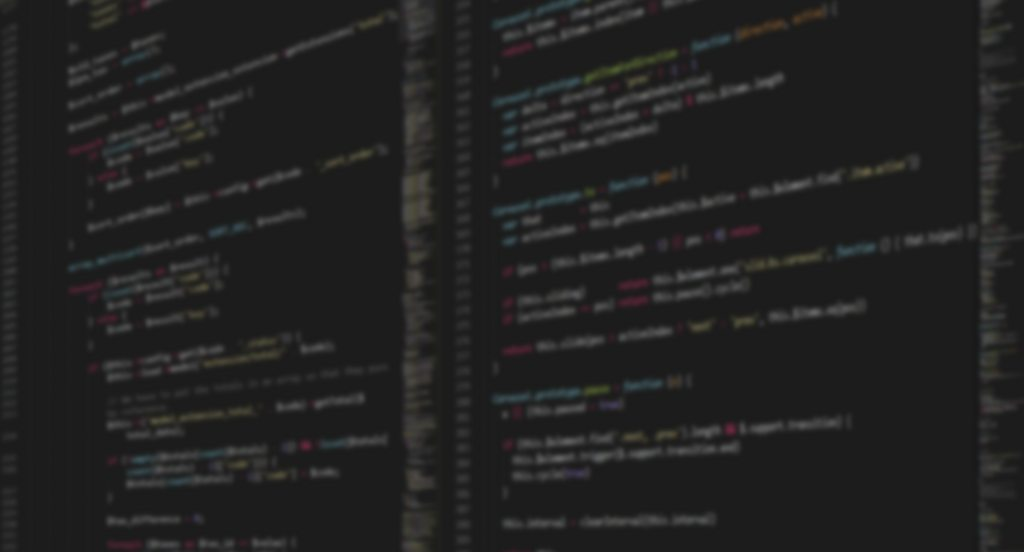
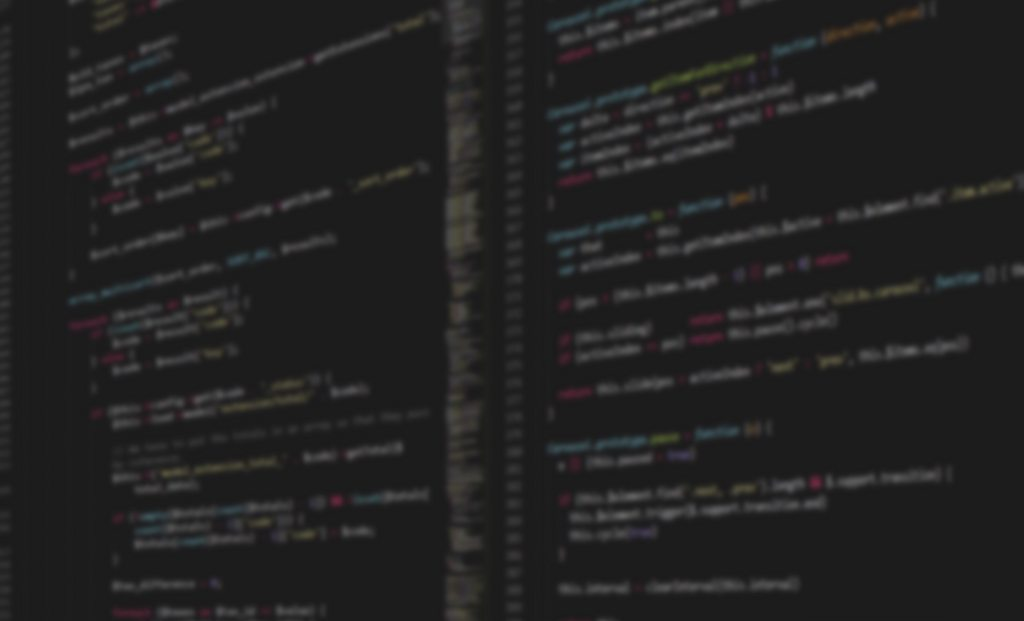
updated bg, loading css

diff --git a/assets/css/resume.min.css b/assets/css/resume.min.css
@@ -2,5 +2,5 @@
  * avarghese-resume (https://github.com/varararun/resume)
  * Copyright 2016-2019 arun varghese
  */
-body,html{font-size:12px;font-family:Montserrat,"Helvetica Neue",Arial,sans-serif}body.disable-scroll,html.disable-scroll{overflow-y:hidden}a,h1,i,li,ul{-webkit-transition:.3s ease-in-out;transition:.3s ease-in-out}a{cursor:pointer;color:inherit!important}li,ul{list-style-type:none!important;margin-left:0;padding-left:0}ul.bullets-check-o li:before{content:'\f058';font-family:'Font Awesome\ 5 Free';font-weight:900;padding-right:10px}ul.bullets-tack li:before{content:'\f08d';font-family:'Font Awesome\ 5 Free';font-weight:900;padding-right:10px}a,button,div,i,select{text-decoration:none!important;outline:0!important}section{background-color:#fffffff0;position:relative;border-radius:2px;-webkit-box-shadow:0 5px 10px 0 rgba(0,0,0,.2);box-shadow:0 5px 10px 0 rgba(0,0,0,.2);max-width:75em;margin:1.5em auto;overflow-x:hidden;padding:1em 1.5em;-webkit-transition:.3s ease-in-out;transition:.3s ease-in-out;overflow:visible;word-wrap:break-word;font-weight:300}section:first-child{background-image:url(../img/bg-card.png);background-size:cover}h1{font-size:24px}h2{font-size:20px}h3{font-size:15px}h4{font-size:12px}h5{font-size:10px}h1,h2,h3,h4,h5,h6{font-weight:600!important;margin-top:5px!important;margin-bottom:5px!important}hr{margin-top:15px;margin-bottom:10px;border:0;border-top:1px solid rgba(0,0,0,.05)}::-webkit-scrollbar{display:none}.no-touch li:hover{border-bottom:1px solid transparent!important;background-color:#009eecc7!important;color:#fff;border-radius:2px}.no-touch .skills>ul>li:hover .proficiency{opacity:1}.no-touch .skills>ul>li:hover span:after{color:#fff}.no-touch .skills>ul h4:hover+li .proficiency{opacity:1}.no-touch .dl-resume-btn:hover{-webkit-box-shadow:0 3px 5px 0 rgba(0,0,0,.2);box-shadow:0 3px 5px 0 rgba(0,0,0,.2)}.footer{color:#fff;position:relative;margin:4.5em auto 0;padding:4em 0 .5em}.home-btn{position:absolute;top:0;left:0;padding:10px;color:#089ee5}.scrolltop-btn{cursor:pointer;position:absolute;top:-16px;border-radius:50%;left:50%;-webkit-transform:translateX(-50%);transform:translateX(-50%)}.environment>span:after,.experience>job>span:after,.skills>ul>li>span:after,.work-details>span:nth-child(odd):after{content:" / ";color:#089ee5;font-weight:600;opacity:.7}#skills>ul>li>span:last-child:after,#skills>ul>li>span:nth-child(7):after,.environment span:last-child:after,.experience span:last-child:after,.opensource span:last-child:after,.projects span:last-child:after,.skills>ul li>span:last-child:after{content:''}.header-name,.section-header{text-transform:uppercase;color:#089ee5!important}.pull-right{float:right}.section-icon{position:absolute;top:0;right:0;padding:1.4em 1em 0 0}.section-icon i{font-size:1.5em}.text-shadow{text-shadow:1px .5px 1px rgba(0,0,0,.2)}.accent-color{color:#089ee5!important}.align-center{text-align:center}.uppercase{text-transform:uppercase}.proficiency{-webkit-transition:.3s ease-in-out;transition:.3s ease-in-out;position:absolute;right:0;top:-21px}#bg-img{background:#282f35 url(../img/code.png);-webkit-transform-origin:center;transform-origin:center;background-size:cover!important;background-repeat:no-repeat!important;background-position:center center!important;width:100%;height:100%;position:fixed;top:0;left:0;-webkit-transition:.3s ease-in-out;transition:.3s ease-in-out;z-index:-1}.bg-overlay{position:fixed;top:0;left:0;width:100%;height:100%;background:radial-gradient(rgba(0,0,0,.2),rgba(0,0,0,.5),rgba(0,0,0,.9));-webkit-transition:.3s ease-in-out;transition:.3s ease-in-out}.dl-resume-container{margin:3em auto 2em}.dl-resume-container .dl-resume-btn{padding:10px;background:url(../img/bg-card.png);background-size:cover;background-repeat:no-repeat;border-radius:2px;background-color:#089ee5;color:#fff!important;font-weight:600;-webkit-transition:.3s ease-in-out;transition:.3s ease-in-out}.no-touch .proficiency{opacity:0}.page-wrap{padding:0 1em;width:100vw;min-height:100%;overflow-x:hidden;-webkit-transition:.3s ease-in-out;transition:.3s ease-in-out}.page-wrap.loading{opacity:0}.header .work-details{margin:1.5em auto;font-size:.9em;font-weight:600;width:100%}.header .work-details h1{font-weight:600!important;font-size:2em}.header .work-details .profile{border-radius:50%;width:10em;margin:0 auto 2em;-webkit-filter:grayscale(100%);filter:grayscale(100%)}.header .summary{position:relative;padding:0 1.45em}.header .summary:before{content:'\f10d';font-family:'Font Awesome\ 5 Free';font-weight:900;color:initial;position:absolute;left:0;font-size:1em;top:0}.header .summary:after{content:'\f10e';font-family:'Font Awesome\ 5 Free';font-weight:900;color:initial;position:absolute;right:0;font-size:1em;top:0}.interests .tech-icons-list{display:-webkit-box;display:-ms-flexbox;display:flex;-webkit-box-orient:horizontal;-webkit-box-direction:normal;-ms-flex-direction:row;flex-direction:row;-ms-flex-wrap:wrap;flex-wrap:wrap;-webkit-box-pack:center;-ms-flex-pack:center;justify-content:center;-webkit-box-align:stretch;-ms-flex-align:stretch;align-items:stretch;-ms-flex-line-pack:stretch;align-content:stretch}.interests .tech-icons-list i{font-size:5em;margin:.3em;-webkit-transition:.3s ease-in-out;transition:.3s ease-in-out;-webkit-filter:grayscale(100%);filter:grayscale(100%)}.interests .tech-icons-list i:hover{-webkit-transform:scale(1.2);transform:scale(1.2);-webkit-filter:grayscale(0);filter:grayscale(0)}.info ul li{padding:.3em .5em!important;background-color:transparent;border-bottom:1px solid #fff;-webkit-transform:perspective(1px) translateZ(0);transform:perspective(1px) translateZ(0)}.info ul li a{padding-right:1em}.info ul li:last-child{border-bottom:none}.info ul li a{-webkit-transition:0s;transition:0s}.info ul li a i{margin-right:.5em;padding:.4em 1.5em .4em .5em;-webkit-transition:0s;transition:0s}.highlights ul li{padding:.3em .5em!important;background-color:transparent;border-bottom:1px solid #fff;-webkit-transform:perspective(1px) translateZ(0);transform:perspective(1px) translateZ(0)}.highlights ul li a{padding-right:1em}.highlights ul li:last-child{border-bottom:none}.skills ul li{padding:.3em .5em!important;background-color:transparent;border-bottom:1px solid #fff;-webkit-transform:perspective(1px) translateZ(0);transform:perspective(1px) translateZ(0)}.skills ul li a{padding-right:1em}.skills ul li:last-child{border-bottom:none}.skills ul li{position:relative}.opensource ul li{padding:.3em .5em!important;background-color:transparent;border-bottom:1px solid #fff;-webkit-transform:perspective(1px) translateZ(0);transform:perspective(1px) translateZ(0)}.opensource ul li a{padding-right:1em}.opensource ul li:last-child{border-bottom:none}.projects ul li{padding:.3em .5em!important;background-color:transparent;border-bottom:1px solid #fff;-webkit-transform:perspective(1px) translateZ(0);transform:perspective(1px) translateZ(0)}.projects ul li a{padding-right:1em}.projects ul li:last-child{border-bottom:none}.experience .job img{width:8em;height:auto;padding:.5em 0}.experience .job .summary{font-size:1.05em;font-weight:300;margin:.5em 0;background-color:transparent;padding:.3em .5em!important}.experience .job .details .job-detail-label{font-weight:600!important}.experience .job .details ul li{padding:.3em .5em!important;background-color:transparent;border-bottom:1px solid #fff;-webkit-transform:perspective(1px) translateZ(0);transform:perspective(1px) translateZ(0)}.experience .job .details ul li a{padding-right:1em}.experience .job .details ul li:last-child{border-bottom:none}.experience .job .details .environment{background-color:transparent;padding:.5em}.achievements .patent a{font-weight:200}.achievements .achievement .summary{background-color:transparent;padding:.5em}.achievements .achievement .summary a{font-weight:200}@media handheld,(max-width:1024px){section{background-color:#fffffff0}}@media handheld,(max-width:450px){.detail-row>.pull-right{float:initial;display:block;margin-top:.5em}}.loader-container{width:100%;height:100%;z-index:10;background:0 0;position:fixed;-webkit-filter:blur(1em);filter:blur(1em);-webkit-transition:.3s ease-in-out;transition:.3s ease-in-out;opacity:0}.loader-container.loading{opacity:1;-webkit-filter:none;filter:none}.cube-loader{width:80px;height:80px;line-height:80px;text-align:center;font-size:50px;-webkit-transform-style:preserve-3d;transform-style:preserve-3d;-webkit-transition:-webkit-transform .5s .1s;transition:-webkit-transform .5s .1s;transition:transform .5s .1s;transition:transform .5s .1s,-webkit-transform .5s .1s;-webkit-perspective:9999px;perspective:9999px;color:#333;margin:-40px 0 0 -40px;margin:0 auto;position:absolute;left:50%;margin-left:-37px;top:50%;z-index:11;-webkit-animation:rotate 2s infinite forwards;animation:rotate 2s infinite forwards;margin-top:-50px}.cube-loader .cube-face{-webkit-box-shadow:inset 0 0 2px 1px #fff,0 0 1px 1px #fff;box-shadow:inset 0 0 2px 1px #fff,0 0 1px 1px #fff;width:inherit;height:inherit;position:absolute;background-color:#121212e0;color:#fff}.cube-loader .cube-face-front{-webkit-transform:translate3d(0,0,40px);transform:translate3d(0,0,40px);font-size:57px}.cube-loader .cube-face-back{-webkit-transform:rotateY(180deg) translate3d(0,0,40px);transform:rotateY(180deg) translate3d(0,0,40px)}.cube-loader .cube-face-left{-webkit-transform:rotateY(-90deg) translate3d(0,0,40px);transform:rotateY(-90deg) translate3d(0,0,40px)}.cube-loader .cube-face-right{-webkit-transform:rotateY(90deg) translate3d(0,0,40px);transform:rotateY(90deg) translate3d(0,0,40px)}.cube-loader .cube-face-top{-webkit-transform:rotateX(90deg) translate3d(0,0,40px);transform:rotateX(90deg) translate3d(0,0,40px)}.cube-loader .cube-face-bottom{-webkit-transform:rotateX(-90deg) translate3d(0,0,40px);transform:rotateX(-90deg) translate3d(0,0,40px)}@-webkit-keyframes rotate{0%{-webkit-transform:rotateY(0) rotateZ(0);transform:rotateY(0) rotateZ(0)}20%{-webkit-transform:rotateY(90deg) rotateZ(0);transform:rotateY(90deg) rotateZ(0)}40%{-webkit-transform:rotateX(45deg) rotateZ(45deg);transform:rotateX(45deg) rotateZ(45deg)}60%{-webkit-transform:rotateX(90deg) rotateY(180deg) rotateX(90deg);transform:rotateX(90deg) rotateY(180deg) rotateX(90deg)}80%{-webkit-transform:rotateX(310deg) rotateZ(230deg);transform:rotateX(310deg) rotateZ(230deg)}100%{-webkit-transform:rotateX(360deg) rotateZ(360deg);transform:rotateX(360deg) rotateZ(360deg)}}@keyframes rotate{0%{-webkit-transform:rotateY(0) rotateZ(0);transform:rotateY(0) rotateZ(0)}20%{-webkit-transform:rotateY(90deg) rotateZ(0);transform:rotateY(90deg) rotateZ(0)}40%{-webkit-transform:rotateX(45deg) rotateZ(45deg);transform:rotateX(45deg) rotateZ(45deg)}60%{-webkit-transform:rotateX(90deg) rotateY(180deg) rotateX(90deg);transform:rotateX(90deg) rotateY(180deg) rotateX(90deg)}80%{-webkit-transform:rotateX(310deg) rotateZ(230deg);transform:rotateX(310deg) rotateZ(230deg)}100%{-webkit-transform:rotateX(360deg) rotateZ(360deg);transform:rotateX(360deg) rotateZ(360deg)}}
+body,html{background-color:#282f35;font-size:12px;font-family:Montserrat,"Helvetica Neue",Arial,sans-serif}body.disable-scroll,html.disable-scroll{overflow-y:hidden}a,h1,i,li,ul{-webkit-transition:.3s ease-in-out;transition:.3s ease-in-out}a{cursor:pointer;color:inherit!important}li,ul{list-style-type:none!important;margin-left:0;padding-left:0}ul.bullets-check-o li:before{content:'\f058';font-family:'Font Awesome\ 5 Free';font-weight:900;padding-right:10px}ul.bullets-tack li:before{content:'\f08d';font-family:'Font Awesome\ 5 Free';font-weight:900;padding-right:10px}a,button,div,i,select{text-decoration:none!important;outline:0!important}section{background-color:#fffffff0;position:relative;border-radius:2px;-webkit-box-shadow:0 5px 10px 0 rgba(0,0,0,.2);box-shadow:0 5px 10px 0 rgba(0,0,0,.2);max-width:75em;margin:1.5em auto;overflow-x:hidden;padding:1em 1.5em;-webkit-transition:.3s ease-in-out;transition:.3s ease-in-out;overflow:visible;word-wrap:break-word;font-weight:300}section:first-child{background-image:url(../img/bg-card.png);background-size:cover}h1{font-size:24px}h2{font-size:20px}h3{font-size:15px}h4{font-size:12px}h5{font-size:10px}h1,h2,h3,h4,h5,h6{font-weight:600!important;margin-top:5px!important;margin-bottom:5px!important}hr{margin-top:15px;margin-bottom:10px;border:0;border-top:1px solid rgba(0,0,0,.05)}::-webkit-scrollbar{display:none}.no-touch li:hover{border-bottom:1px solid transparent!important;background-color:#009eecc7!important;color:#fff;border-radius:2px}.no-touch .skills>ul>li:hover .proficiency{opacity:1}.no-touch .skills>ul>li:hover span:after{color:#fff}.no-touch .skills>ul h4:hover+li .proficiency{opacity:1}.no-touch .dl-resume-btn:hover{-webkit-box-shadow:0 3px 5px 0 rgba(0,0,0,.2);box-shadow:0 3px 5px 0 rgba(0,0,0,.2)}.footer{color:#fff;position:relative;margin:4.5em auto 0;padding:4em 0 .5em}.home-btn{position:absolute;top:0;left:0;padding:10px;color:#089ee5}.scrolltop-btn{cursor:pointer;position:absolute;top:-16px;border-radius:50%;left:50%;-webkit-transform:translateX(-50%);transform:translateX(-50%)}.environment>span:after,.experience>job>span:after,.skills>ul>li>span:after,.work-details>span:nth-child(odd):after{content:" / ";color:#089ee5;font-weight:600;opacity:.7}#skills>ul>li>span:last-child:after,#skills>ul>li>span:nth-child(7):after,.environment span:last-child:after,.experience span:last-child:after,.opensource span:last-child:after,.projects span:last-child:after,.skills>ul li>span:last-child:after{content:''}.header-name,.section-header{text-transform:uppercase;color:#089ee5!important}.pull-right{float:right}.section-icon{position:absolute;top:0;right:0;padding:1.4em 1em 0 0}.section-icon i{font-size:1.5em}.text-shadow{text-shadow:1px .5px 1px rgba(0,0,0,.2)}.accent-color{color:#089ee5!important}.align-center{text-align:center}.uppercase{text-transform:uppercase}.proficiency{-webkit-transition:.3s ease-in-out;transition:.3s ease-in-out;position:absolute;right:0;top:-21px}#bg-img{background:#282f35 url(../img/code.png);-webkit-transform-origin:center;transform-origin:center;background-size:cover!important;background-repeat:no-repeat!important;background-position:center center!important;width:100%;height:100%;position:fixed;top:0;left:0;-webkit-transition:.3s ease-in-out;transition:.3s ease-in-out}.bg-overlay{position:fixed;top:0;left:0;width:100%;height:100%;background:radial-gradient(rgba(0,0,0,.2),rgba(0,0,0,.5),rgba(0,0,0,.9));-webkit-transition:.3s ease-in-out;transition:.3s ease-in-out}.dl-resume-container{margin:3em auto 2em}.dl-resume-container .dl-resume-btn{padding:10px;background:url(../img/bg-card.png);background-size:cover;background-repeat:no-repeat;border-radius:2px;background-color:#089ee5;color:#fff!important;font-weight:600;-webkit-transition:.3s ease-in-out;transition:.3s ease-in-out}.no-touch .proficiency{opacity:0}.page-wrap{padding:0 1em;width:100vw;min-height:100%;overflow-x:hidden;-webkit-transition:.3s ease-in-out;transition:.3s ease-in-out}.page-wrap.loading{opacity:0}.header .work-details{margin:1.5em auto;font-size:.9em;font-weight:600;width:100%}.header .work-details h1{font-weight:600!important;font-size:2em}.header .work-details .profile{border-radius:50%;width:10em;margin:0 auto 2em;-webkit-filter:grayscale(100%);filter:grayscale(100%)}.header .summary{position:relative;padding:0 1.45em}.header .summary:before{content:'\f10d';font-family:'Font Awesome\ 5 Free';font-weight:900;color:initial;position:absolute;left:0;font-size:1em;top:0}.header .summary:after{content:'\f10e';font-family:'Font Awesome\ 5 Free';font-weight:900;color:initial;position:absolute;right:0;font-size:1em;top:0}.interests .tech-icons-list{display:-webkit-box;display:-ms-flexbox;display:flex;-webkit-box-orient:horizontal;-webkit-box-direction:normal;-ms-flex-direction:row;flex-direction:row;-ms-flex-wrap:wrap;flex-wrap:wrap;-webkit-box-pack:center;-ms-flex-pack:center;justify-content:center;-webkit-box-align:stretch;-ms-flex-align:stretch;align-items:stretch;-ms-flex-line-pack:stretch;align-content:stretch}.interests .tech-icons-list i{font-size:5em;margin:.3em;-webkit-transition:.3s ease-in-out;transition:.3s ease-in-out;-webkit-filter:grayscale(100%);filter:grayscale(100%)}.interests .tech-icons-list i:hover{-webkit-transform:scale(1.2);transform:scale(1.2);-webkit-filter:grayscale(0);filter:grayscale(0)}.info ul li{padding:.3em .5em!important;background-color:transparent;border-bottom:1px solid #fff;-webkit-transform:perspective(1px) translateZ(0);transform:perspective(1px) translateZ(0)}.info ul li a{padding-right:1em}.info ul li:last-child{border-bottom:none}.info ul li a{-webkit-transition:0s;transition:0s}.info ul li a i{margin-right:.5em;padding:.4em 1.5em .4em .5em;-webkit-transition:0s;transition:0s}.highlights ul li{padding:.3em .5em!important;background-color:transparent;border-bottom:1px solid #fff;-webkit-transform:perspective(1px) translateZ(0);transform:perspective(1px) translateZ(0)}.highlights ul li a{padding-right:1em}.highlights ul li:last-child{border-bottom:none}.skills ul li{padding:.3em .5em!important;background-color:transparent;border-bottom:1px solid #fff;-webkit-transform:perspective(1px) translateZ(0);transform:perspective(1px) translateZ(0)}.skills ul li a{padding-right:1em}.skills ul li:last-child{border-bottom:none}.skills ul li{position:relative}.opensource ul li{padding:.3em .5em!important;background-color:transparent;border-bottom:1px solid #fff;-webkit-transform:perspective(1px) translateZ(0);transform:perspective(1px) translateZ(0)}.opensource ul li a{padding-right:1em}.opensource ul li:last-child{border-bottom:none}.projects ul li{padding:.3em .5em!important;background-color:transparent;border-bottom:1px solid #fff;-webkit-transform:perspective(1px) translateZ(0);transform:perspective(1px) translateZ(0)}.projects ul li a{padding-right:1em}.projects ul li:last-child{border-bottom:none}.experience .job img{width:8em;height:auto;padding:.5em 0}.experience .job .summary{font-size:1.05em;font-weight:300;margin:.5em 0;background-color:transparent;padding:.3em .5em!important}.experience .job .details .job-detail-label{font-weight:600!important}.experience .job .details ul li{padding:.3em .5em!important;background-color:transparent;border-bottom:1px solid #fff;-webkit-transform:perspective(1px) translateZ(0);transform:perspective(1px) translateZ(0)}.experience .job .details ul li a{padding-right:1em}.experience .job .details ul li:last-child{border-bottom:none}.experience .job .details .environment{background-color:transparent;padding:.5em}.achievements .patent a{font-weight:200}.achievements .achievement .summary{background-color:transparent;padding:.5em}.achievements .achievement .summary a{font-weight:200}@media handheld,(max-width:1024px){section{background-color:#fffffff0}}@media handheld,(max-width:450px){.detail-row>.pull-right{float:initial;display:block;margin-top:.5em}}.loader-container{width:100%;height:100%;z-index:10;background:0 0;position:fixed;-webkit-filter:blur(1em);filter:blur(1em);-webkit-transition:.3s ease-in-out;transition:.3s ease-in-out;opacity:0}.loader-container.loading{opacity:1;-webkit-filter:none;filter:none}.cube-loader{width:80px;height:80px;line-height:80px;text-align:center;font-size:50px;-webkit-transform-style:preserve-3d;transform-style:preserve-3d;-webkit-transition:-webkit-transform .5s .1s;transition:-webkit-transform .5s .1s;transition:transform .5s .1s;transition:transform .5s .1s,-webkit-transform .5s .1s;-webkit-perspective:9999px;perspective:9999px;color:#333;margin:-40px 0 0 -40px;margin:0 auto;position:absolute;left:50%;margin-left:-37px;top:50%;z-index:11;-webkit-animation:rotate 2s infinite forwards;animation:rotate 2s infinite forwards;margin-top:-50px}.cube-loader .cube-face{-webkit-box-shadow:inset 0 0 2px 1px #fff,0 0 1px 1px #fff;box-shadow:inset 0 0 2px 1px #fff,0 0 1px 1px #fff;width:inherit;height:inherit;position:absolute;background-color:#121212e0;color:#fff}.cube-loader .cube-face-front{-webkit-transform:translate3d(0,0,40px);transform:translate3d(0,0,40px);font-size:57px}.cube-loader .cube-face-back{-webkit-transform:rotateY(180deg) translate3d(0,0,40px);transform:rotateY(180deg) translate3d(0,0,40px)}.cube-loader .cube-face-left{-webkit-transform:rotateY(-90deg) translate3d(0,0,40px);transform:rotateY(-90deg) translate3d(0,0,40px)}.cube-loader .cube-face-right{-webkit-transform:rotateY(90deg) translate3d(0,0,40px);transform:rotateY(90deg) translate3d(0,0,40px)}.cube-loader .cube-face-top{-webkit-transform:rotateX(90deg) translate3d(0,0,40px);transform:rotateX(90deg) translate3d(0,0,40px)}.cube-loader .cube-face-bottom{-webkit-transform:rotateX(-90deg) translate3d(0,0,40px);transform:rotateX(-90deg) translate3d(0,0,40px)}@-webkit-keyframes rotate{0%{-webkit-transform:rotateY(0) rotateZ(0);transform:rotateY(0) rotateZ(0)}20%{-webkit-transform:rotateY(90deg) rotateZ(0);transform:rotateY(90deg) rotateZ(0)}40%{-webkit-transform:rotateX(45deg) rotateZ(45deg);transform:rotateX(45deg) rotateZ(45deg)}60%{-webkit-transform:rotateX(90deg) rotateY(180deg) rotateX(90deg);transform:rotateX(90deg) rotateY(180deg) rotateX(90deg)}80%{-webkit-transform:rotateX(310deg) rotateZ(230deg);transform:rotateX(310deg) rotateZ(230deg)}100%{-webkit-transform:rotateX(360deg) rotateZ(360deg);transform:rotateX(360deg) rotateZ(360deg)}}@keyframes rotate{0%{-webkit-transform:rotateY(0) rotateZ(0);transform:rotateY(0) rotateZ(0)}20%{-webkit-transform:rotateY(90deg) rotateZ(0);transform:rotateY(90deg) rotateZ(0)}40%{-webkit-transform:rotateX(45deg) rotateZ(45deg);transform:rotateX(45deg) rotateZ(45deg)}60%{-webkit-transform:rotateX(90deg) rotateY(180deg) rotateX(90deg);transform:rotateX(90deg) rotateY(180deg) rotateX(90deg)}80%{-webkit-transform:rotateX(310deg) rotateZ(230deg);transform:rotateX(310deg) rotateZ(230deg)}100%{-webkit-transform:rotateX(360deg) rotateZ(360deg);transform:rotateX(360deg) rotateZ(360deg)}}
 /*# sourceMappingURL=resume.min.css.map */

diff --git a/assets/css/resume.scss b/assets/css/resume.scss
@@ -1,7 +1,7 @@
 $color-accent: #089ee5;
 $divider: ' / ';
 $border-radius: 2px;
-$bg-color: #282f35;
+$background-color: #282f35;
 $element-bg-color: transparent;
 $transition-default: .3s ease-in-out;
 $font-family: 'Montserrat',
@@ -30,6 +30,7 @@ sans-serif;
 
 html,
 body {
+    background-color: $background-color;
     font-size: 12px;
     font-family: $font-family;
 
@@ -267,7 +268,7 @@ hr {
 }
 
 #bg-img {
-    background: $bg-color url('../img/code.png');
+    background: $background-color url('../img/code.png');
     transform-origin: center;
     background-size: cover !important;
     background-repeat: no-repeat !important;
@@ -278,7 +279,6 @@ hr {
     top: 0;
     left: 0;
     transition: $transition-default;
-    z-index: -1;
 }
 
 .bg-overlay {

diff --git a/assets/css/resume.css b/assets/css/resume.css
@@ -1,6 +1,7 @@
 /* general styling */
 html,
 body {
+  background-color: #282f35;
   font-size: 12px;
   font-family: "Montserrat", "Helvetica Neue", Arial, sans-serif; }
   html.disable-scroll,
@@ -207,8 +208,7 @@ hr {
   top: 0;
   left: 0;
   -webkit-transition: 0.3s ease-in-out;
-  transition: 0.3s ease-in-out;
-  z-index: -1; }
+  transition: 0.3s ease-in-out; }
 
 .bg-overlay {
   position: fixed;
